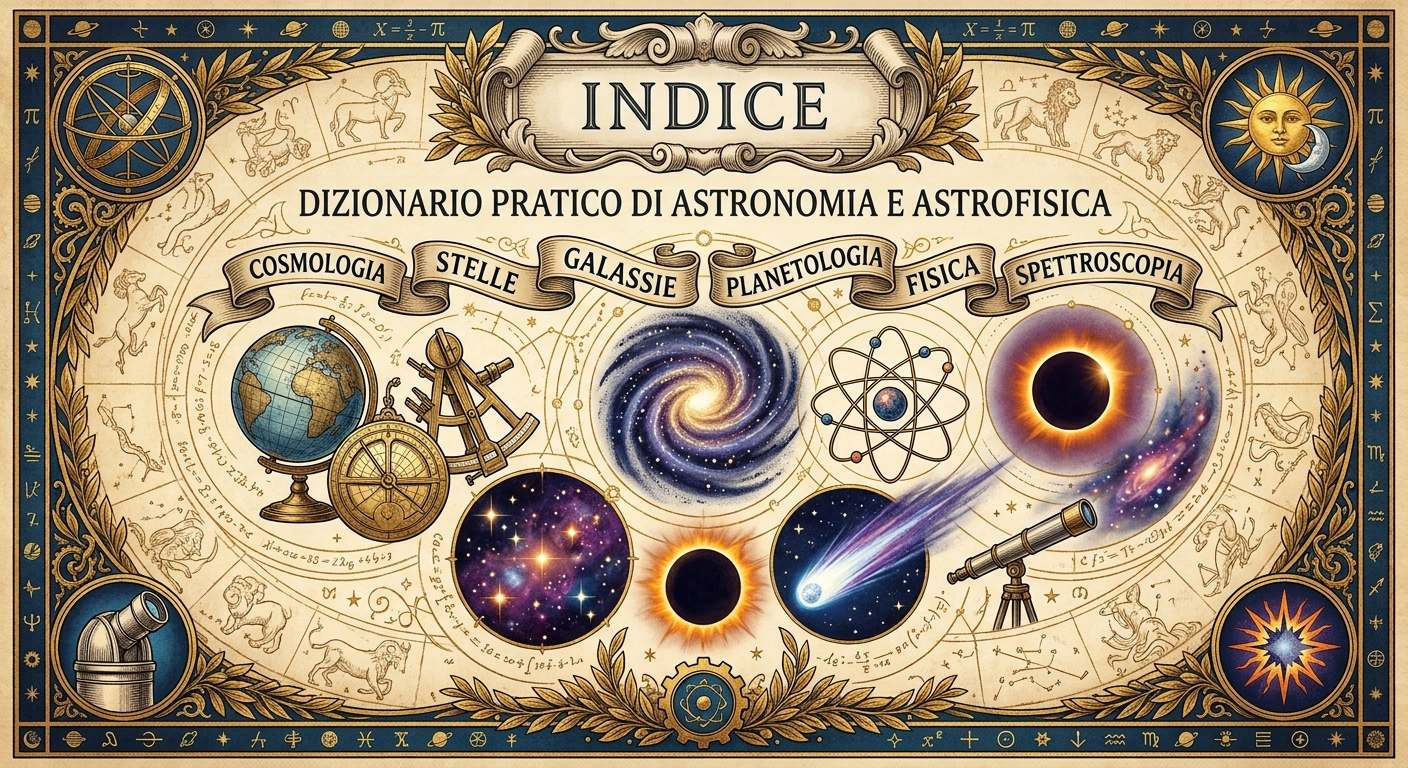
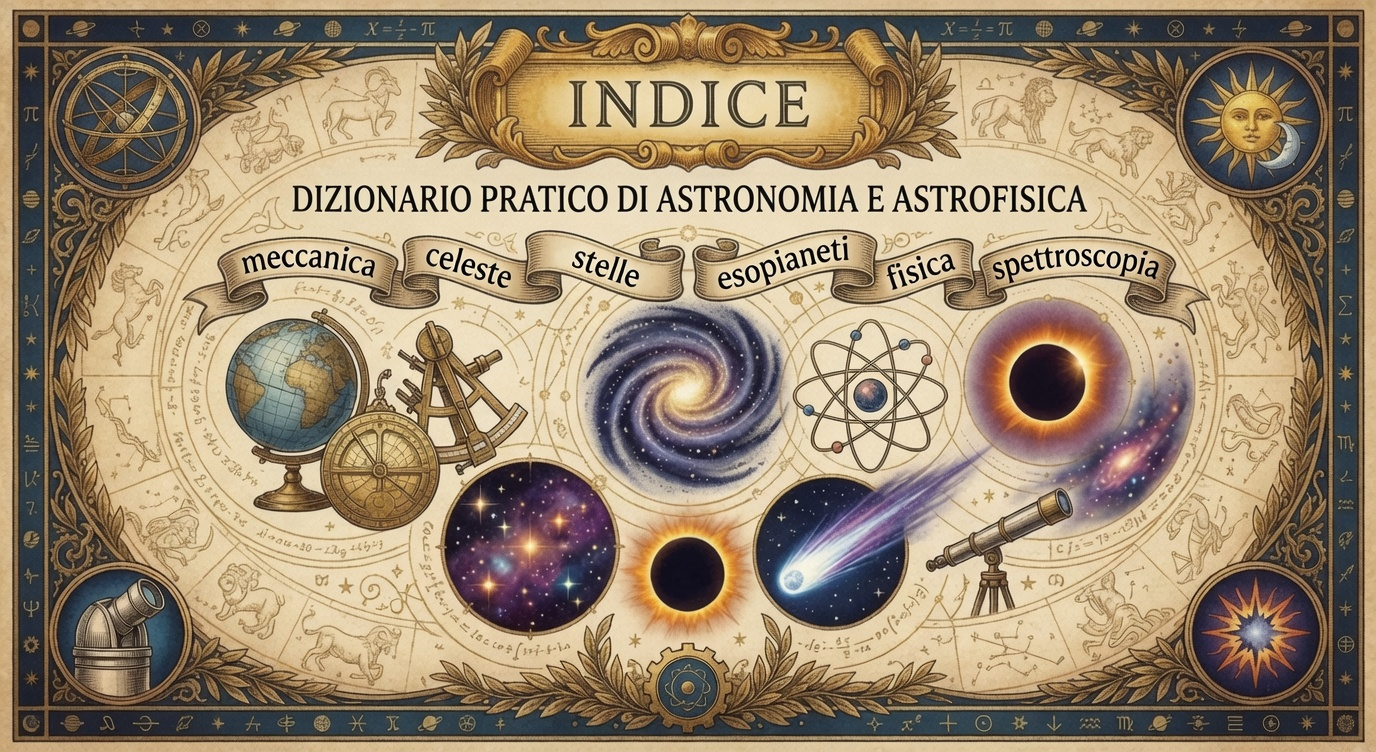
Correzioni agli indici sul testo e sulle immagini

diff --git a/content/dizionario/_index.md b/content/dizionario/_index.md
@@ -7,6 +7,6 @@ bookCollapseSection = true
 
 {{< katex />}}
 
-Una raccolta alfabetica di termini, concetti e fenomeni dell'astronomia e dell'astrofisica, corredati da esempi pratici di applicazione delle formule.
+Una raccolta alfabetica di termini, concetti e fenomeni dell'astronomia e dell'astrofisica, corredata da esempi pratici di applicazione delle formule. Lo scopo di questo dizionario è fornire gli strumenti indispensabili per comprendere gli articoli dedicati alle stelle. Non aspira alla completezza, ma vuole essere un riferimento pratico e di facile consultazione. Tutte le informazioni in esso contenute sono state comunque controllate con scrupolo, nel tentativo di evitare errori e imprecisioni. Qualsiasi segnalazione sarà tenuta nella massima considerazione.
 
-{{< figura src="/immagini/dizionario.jpg" label="false" alt="Descrizione" caption="Crediti: Gemini" >}}
+{{< figura src="/immagini/dizionario.jpg" label="false" alt="Descrizione" caption="Crediti: Gemini/Grok" >}}

diff --git a/content/_index.md b/content/_index.md
@@ -7,4 +7,4 @@ Un viaggio nell'universo per conoscere da "vicino" le stelle più belle e intere
 - [Catalogo delle stelle](stelle/)
 - [Dizionario pratico di astronomia e astrofisica](dizionario/)
 
-{{< figura src="immagini/ngc3603.jpg" label="false" alt="La regione di formazione stellare NGC 3603 ripresa dal Telescopio Spaziale Hubble." caption="La regione di formazione stellare NGC 3603 ripresa dal Telescopio Spaziale Hubble. Al centro è visibile uno dei più impressionanti e massicci ammassi stellari della Via Lattea, formato da giovani e caldissime stelle blu. L'ammasso si è formato a seguito di un violento e veloce episodio di formazione stellare, avvenuto probabilmente intorno a un milione di anni fa. Il fiume di radiazione ultravioletta proveniente dalle stelle dell'ammasso ha scavato un'enorme cavità nel gas della nebulosa, visibile sulla destra. Crediti: NASA, ESA and the Hubble Heritage (STScI/AURA)-ESA/Hubble Collaboration" >}}
+{{< figura src="immagini/cats-eye-nebula.jpg" label="false" alt="La Nebulosa Occhio di Gatto (NGC 6543), ripresa dal Telescopio Spaziale Hubble. È una delle nebulose planetarie più belle e complesse mai osservate. Con un'età stimata di circa 1.000 anni, la sua intricata struttura è una specie di viaggio nel tempo che mostra le fasi finali della vita di una stella morente." caption="La Nebulosa Occhio di Gatto (NGC 6543), ripresa dal Telescopio Spaziale Hubble. È una delle nebulose planetarie più belle e complesse mai osservate. Con un'età stimata di circa 1.000 anni, la sua intricata struttura è una specie di viaggio nel tempo che mostra le fasi finali della vita di una stella morente. L'incredibile complessità delle sue strutture – caratterizzate da gusci di gas concentrici, getti ad alta velocità e archi luminosi – suggerisce che al centro non vi sia una stella singola, bensì un sistema binario (due stelle che orbitano l'una intorno all'altra). I forti venti stellari e l'interazione gravitazionale tra le due componenti spiegherebbero la forma geometrica intricata e i getti di gas intermittenti che modellano la periferia della nebulosa. Crediti: ESA/Hubble & NASA, Z. Tsvetanov" >}}